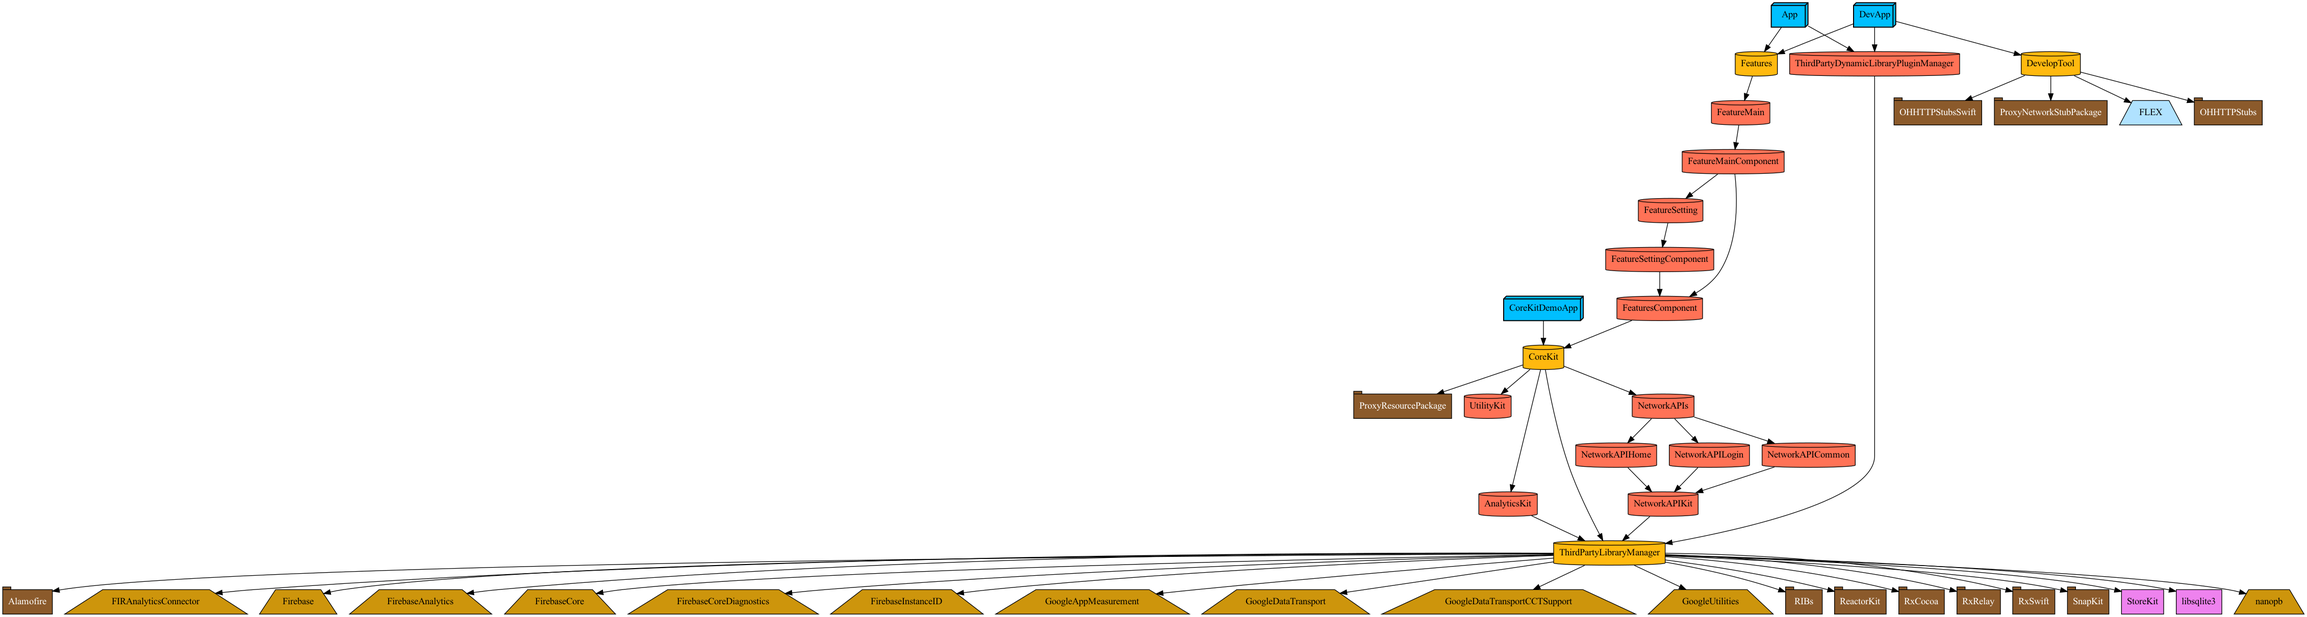
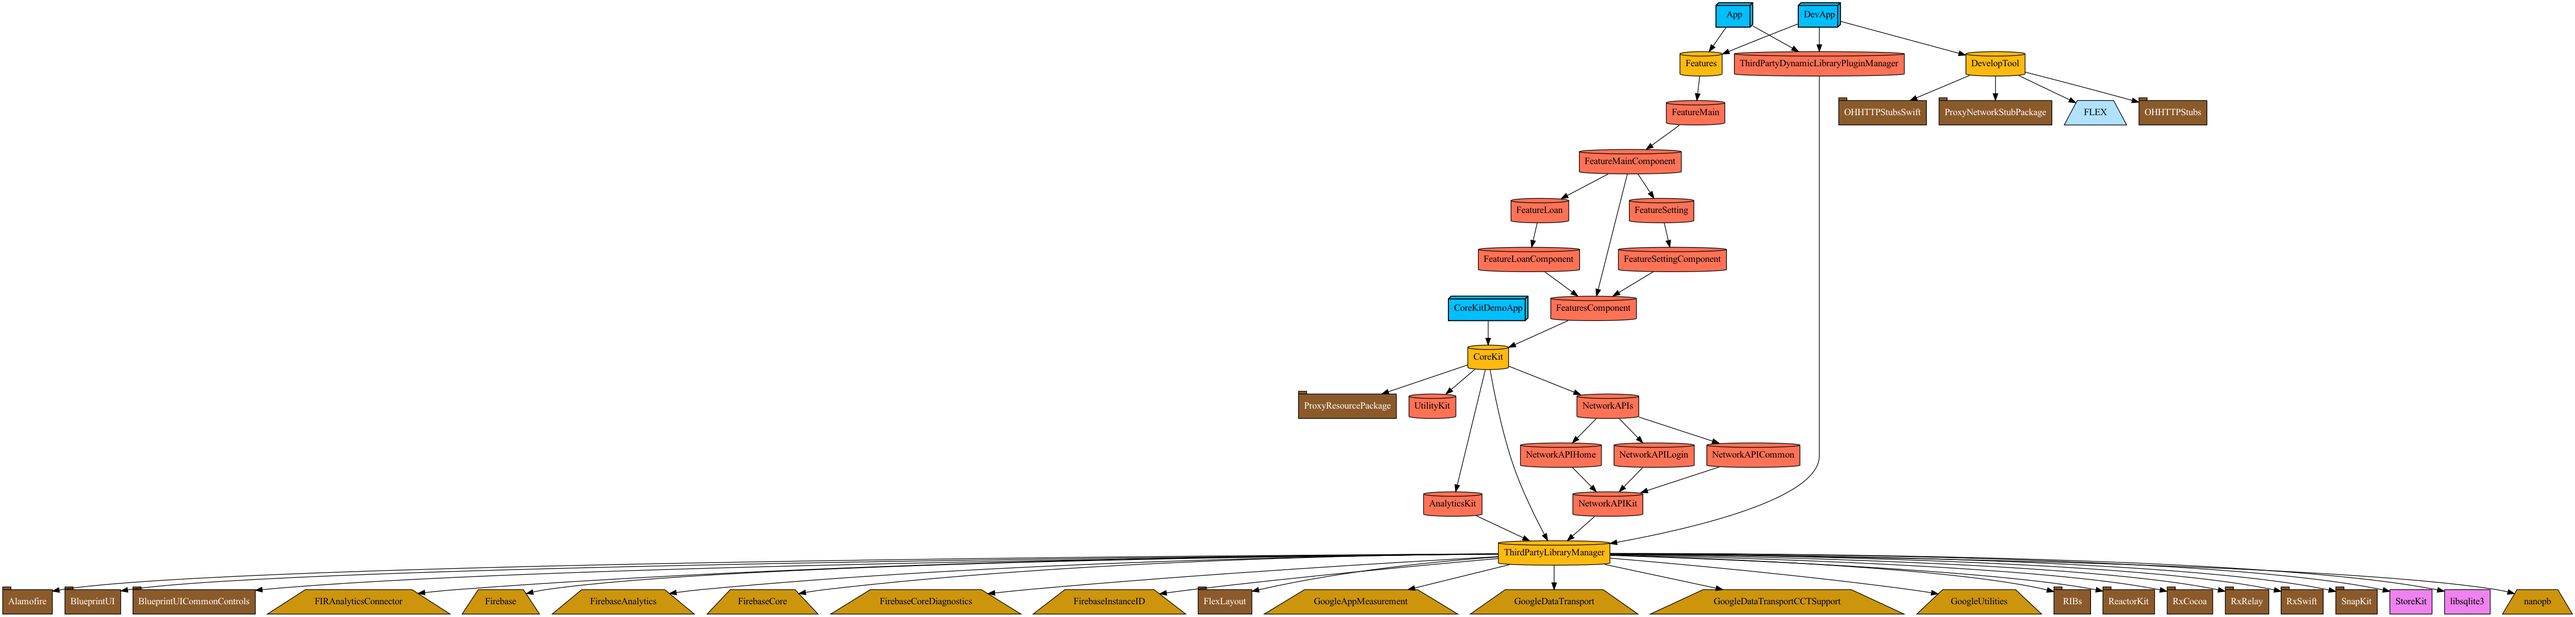
FeatureLoan 추가 및 Blueprint, FlexLayout 라이브러리 추가

diff --git a/Plugin/UtilityPlugin/ProjectDescriptionHelpers/Dependency+SwiftPM.swift b/Plugin/UtilityPlugin/ProjectDescriptionHelpers/Dependency+SwiftPM.swift
@@ -20,15 +20,17 @@ extension Package {
 }
 
 public extension TargetDependency.SwiftPM {
-    static let ProxyResourcePackage = TargetDependency.package(product: "ProxyResourcePackage")
-    static let Alamofire            = TargetDependency.package(product: "Alamofire")
-    static let SnapKit              = TargetDependency.package(product: "SnapKit")
-    static let FlexLayout           = TargetDependency.package(product: "FlexLayout")
-    static let ReactorKit           = TargetDependency.package(product: "ReactorKit")
-    static let RIBs                 = TargetDependency.package(product: "RIBs")
-    static let RxSwift              = TargetDependency.package(product: "RxSwift")
-    static let RxCocoa              = TargetDependency.package(product: "RxCocoa")
-    static let RxRelay              = TargetDependency.package(product: "RxRelay")
+    static let ProxyResourcePackage      = TargetDependency.package(product: "ProxyResourcePackage")
+    static let Alamofire                 = TargetDependency.package(product: "Alamofire")
+    static let BlueprintUI               = TargetDependency.package(product: "BlueprintUI")
+    static let BlueprintUICommonControls = TargetDependency.package(product: "BlueprintUICommonControls")
+    static let FlexLayout                = TargetDependency.package(product: "FlexLayout")
+    static let ReactorKit                = TargetDependency.package(product: "ReactorKit")
+    static let RIBs                      = TargetDependency.package(product: "RIBs")
+    static let RxCocoa                   = TargetDependency.package(product: "RxCocoa")
+    static let RxRelay                   = TargetDependency.package(product: "RxRelay")
+    static let RxSwift                   = TargetDependency.package(product: "RxSwift")
+    static let SnapKit                   = TargetDependency.package(product: "SnapKit")
 }
 
 public extension TargetDependency.SwiftPM.DevelopTool {
@@ -40,6 +42,7 @@ public extension TargetDependency.SwiftPM.DevelopTool {
 public extension Package {
     static let ProxyResourcePackage = Package.local(path: .relativeToModule("ProxyResourcePackage"))
     static let Alamofire            = Package.package(url: "https://github.com/Alamofire/Alamofire.git", .branch("master"))
+    static let Blueprint            = Package.package(url: "https://github.com/square/Blueprint.git", from: "0.3.0")
     static let FlexLayout           = Package.package(url: "https://github.com/layoutBox/FlexLayout.git", .branch("master"))
     static let ReactorKit           = Package.package(url: "https://github.com/ReactorKit/ReactorKit.git", .branch("master"))
     static let RIBs                 = Package.package(url: "https://github.com/uber/RIBs.git", .branch("master"))

diff --git a/Projects/Modules/ThirdPartyLibraryManager/Project.swift b/Projects/Modules/ThirdPartyLibraryManager/Project.swift
@@ -8,11 +8,16 @@ let project = Project
                 .ReactorKit,
                 .RIBs,
                 .RxSwift,
-                .SnapKit
+                .SnapKit,
+                .Blueprint,
+                .FlexLayout,
                ],
                dependencies: [
                TargetDependency.Framework.Firebase,
                 [.SwiftPM.Alamofire,
+                 .SwiftPM.BlueprintUI,
+                 .SwiftPM.BlueprintUICommonControls,
+                 .SwiftPM.FlexLayout,
                  .SwiftPM.ReactorKit,
                  .SwiftPM.RIBs,
                  .SwiftPM.RxCocoa,

diff --git a/Plugin/UtilityPlugin/ProjectDescriptionHelpers/Dependency+Project.swift b/Plugin/UtilityPlugin/ProjectDescriptionHelpers/Dependency+Project.swift
@@ -23,6 +23,8 @@ public extension TargetDependency.Feature {
     static let MainComponent     = TargetDependency.feature(name: "FeatureMainComponent")
     static let Setting           = TargetDependency.feature(name: "FeatureSetting")
     static let SettingComponent  = TargetDependency.feature(name: "FeatureSettingComponent")
+    static let Loan              = TargetDependency.feature(name: "FeatureLoan")
+    static let LoanComponent     = TargetDependency.feature(name: "FeatureLoanComponent")
 }
 
 public extension TargetDependency.Project {

diff --git a/Projects/Features/FeatureLoanComponent/Project.swift b/Projects/Features/FeatureLoanComponent/Project.swift
@@ -2,9 +2,7 @@ import ProjectDescription
 import ProjectDescriptionHelpers
 
 let project = Project
-    .staticFramework(name: "FeatureMainComponent",
+    .staticFramework(name: "FeatureLoanComponent",
                      dependencies: [
                         .Feature.FeaturesComponent,
-                        .Feature.Setting,
-                        .Feature.Loan,
                      ])

diff --git a/Projects/Features/FeatureLoan/Project.swift b/Projects/Features/FeatureLoan/Project.swift
@@ -1,0 +1,8 @@
+import ProjectDescription
+import ProjectDescriptionHelpers
+
+let project = Project
+    .staticFramework(name: "FeatureLoan",
+                     dependencies: [
+                        .Feature.LoanComponent,
+                     ])

diff --git a/README.md b/README.md
@@ -49,3 +49,10 @@ $ tuist graph -t -f dot
 ```
 
 ![graph](./graph.png)
+
+## Design System
+
+1.시험 라이브러리 목록
+- [Square/Blueprint](https://github.com/square/Blueprint)
+- [layoutBox/FlexLayout](https://github.com/layoutBox/FlexLayout)
+- SwiftUI
